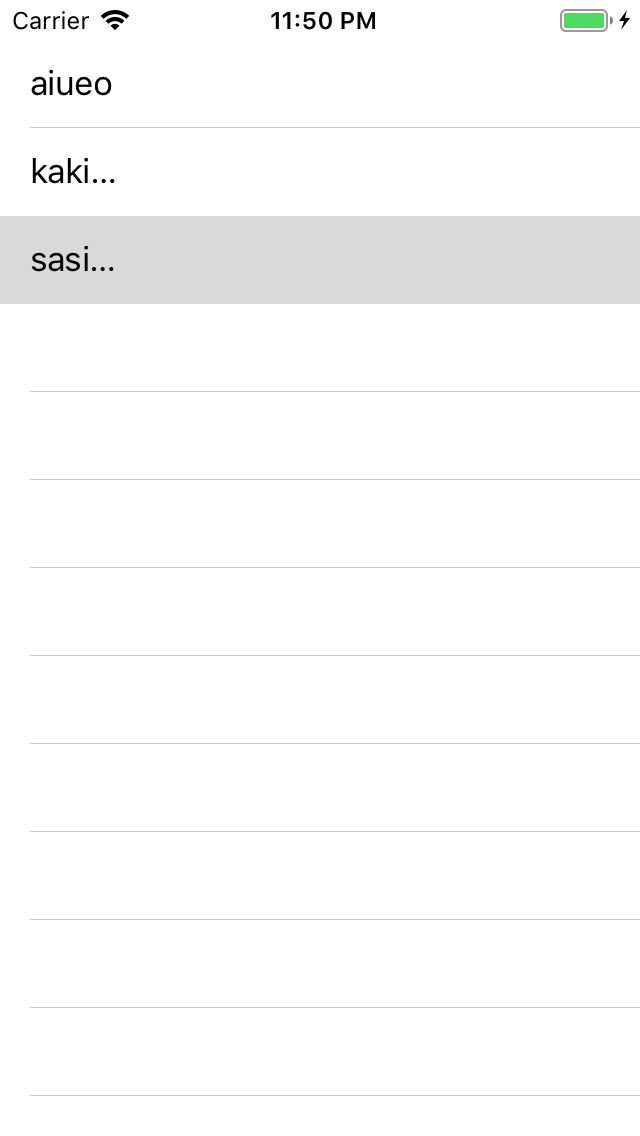
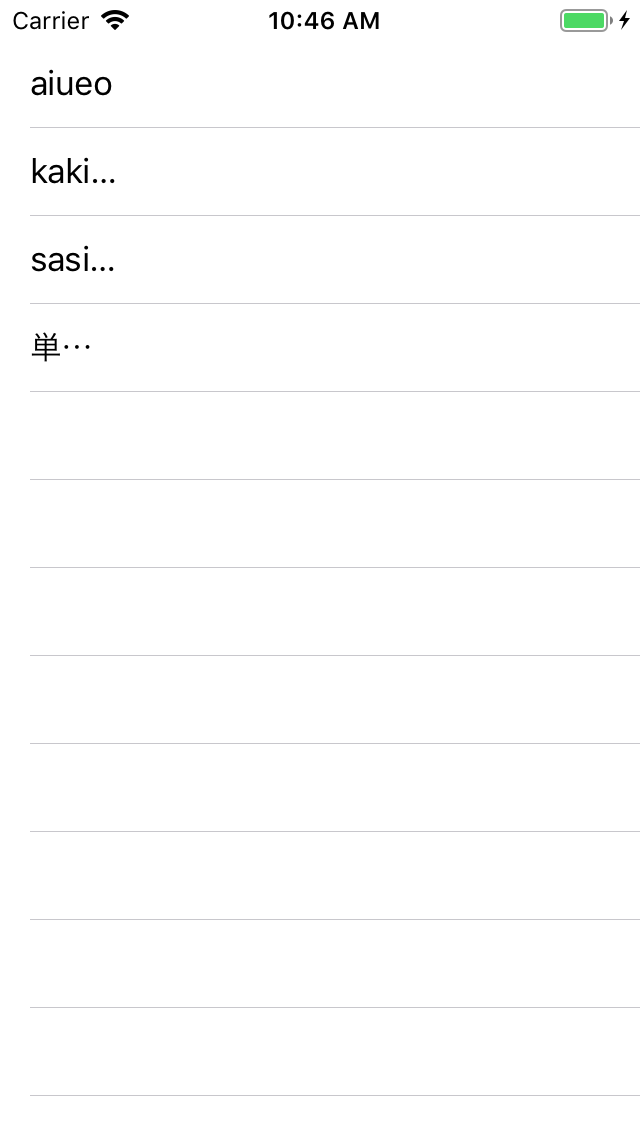
TableViewの最後に”単語帳を追加”項目を追加

Changed region(s): [[0.0, 0.1849, 1.0, 0.3389], [0.4062, 0.0, 0.5938, 0.0308]]

diff --git a/EnglishWords/EnglishWords/ViewController.swift b/EnglishWords/EnglishWords/ViewController.swift
@@ -12,8 +12,7 @@ class ViewController: UIViewController, UITableViewDelegate, UITableViewDataSour
 
     @IBOutlet var table:UITableView!
     
-    //
-    let TODO = ["aiueo","kakikukeko","sasisuseso"]
+    var TODO = ["aiueo","kakikukeko","sasisuseso"]
     
     override func viewDidLoad() {
         super.viewDidLoad()
@@ -27,7 +26,7 @@ class ViewController: UIViewController, UITableViewDelegate, UITableViewDataSour
     //Table Viewのセルの数を指定
     func tableView(_ table: UITableView,
                    numberOfRowsInSection section: Int) -> Int {
-        return TODO.count
+        return TODO.count + 1
     }
     
     //各セルの要素を設定する
@@ -39,6 +38,7 @@ class ViewController: UIViewController, UITableViewDelegate, UITableViewDataSour
                                              for: indexPath)
         
         // Tag番号  で UILabel インスタンスの生成
+        TODO.append("単語帳を追加")
         let label1 = cell.viewWithTag(1) as! UILabel
         label1.text = TODO[indexPath.row]
         
